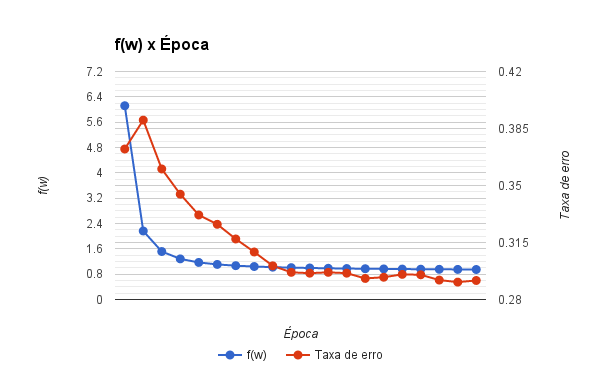
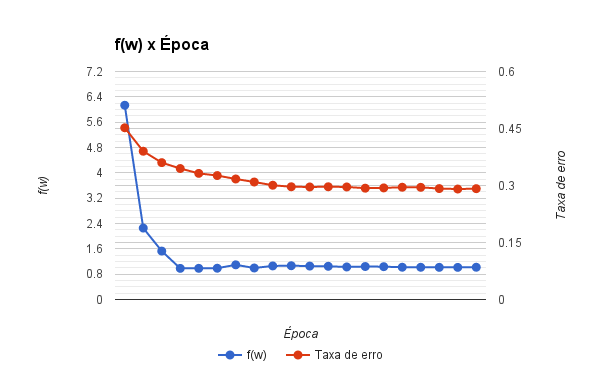
fix imagem fw x epoca

diff --git a/PA1/svm.py b/PA1/svm.py
@@ -83,7 +83,7 @@ def pegasos_svm_train(data, lambd):
 
 		current_epoch += 1
 		#print 'Epoch: {0} f(w): {1}'.format(current_epoch, f_w)
-		#print 'Epoch: {0} error: {1}'.format(current_epoch, errorCount/m)
+		print 'Epoch: {0} error: {1}'.format(current_epoch, errorCount/m)
 
 	print 'Train Error rate: {0}'.format(errorCount/m)
 	print 'Train f(w)', f_w
